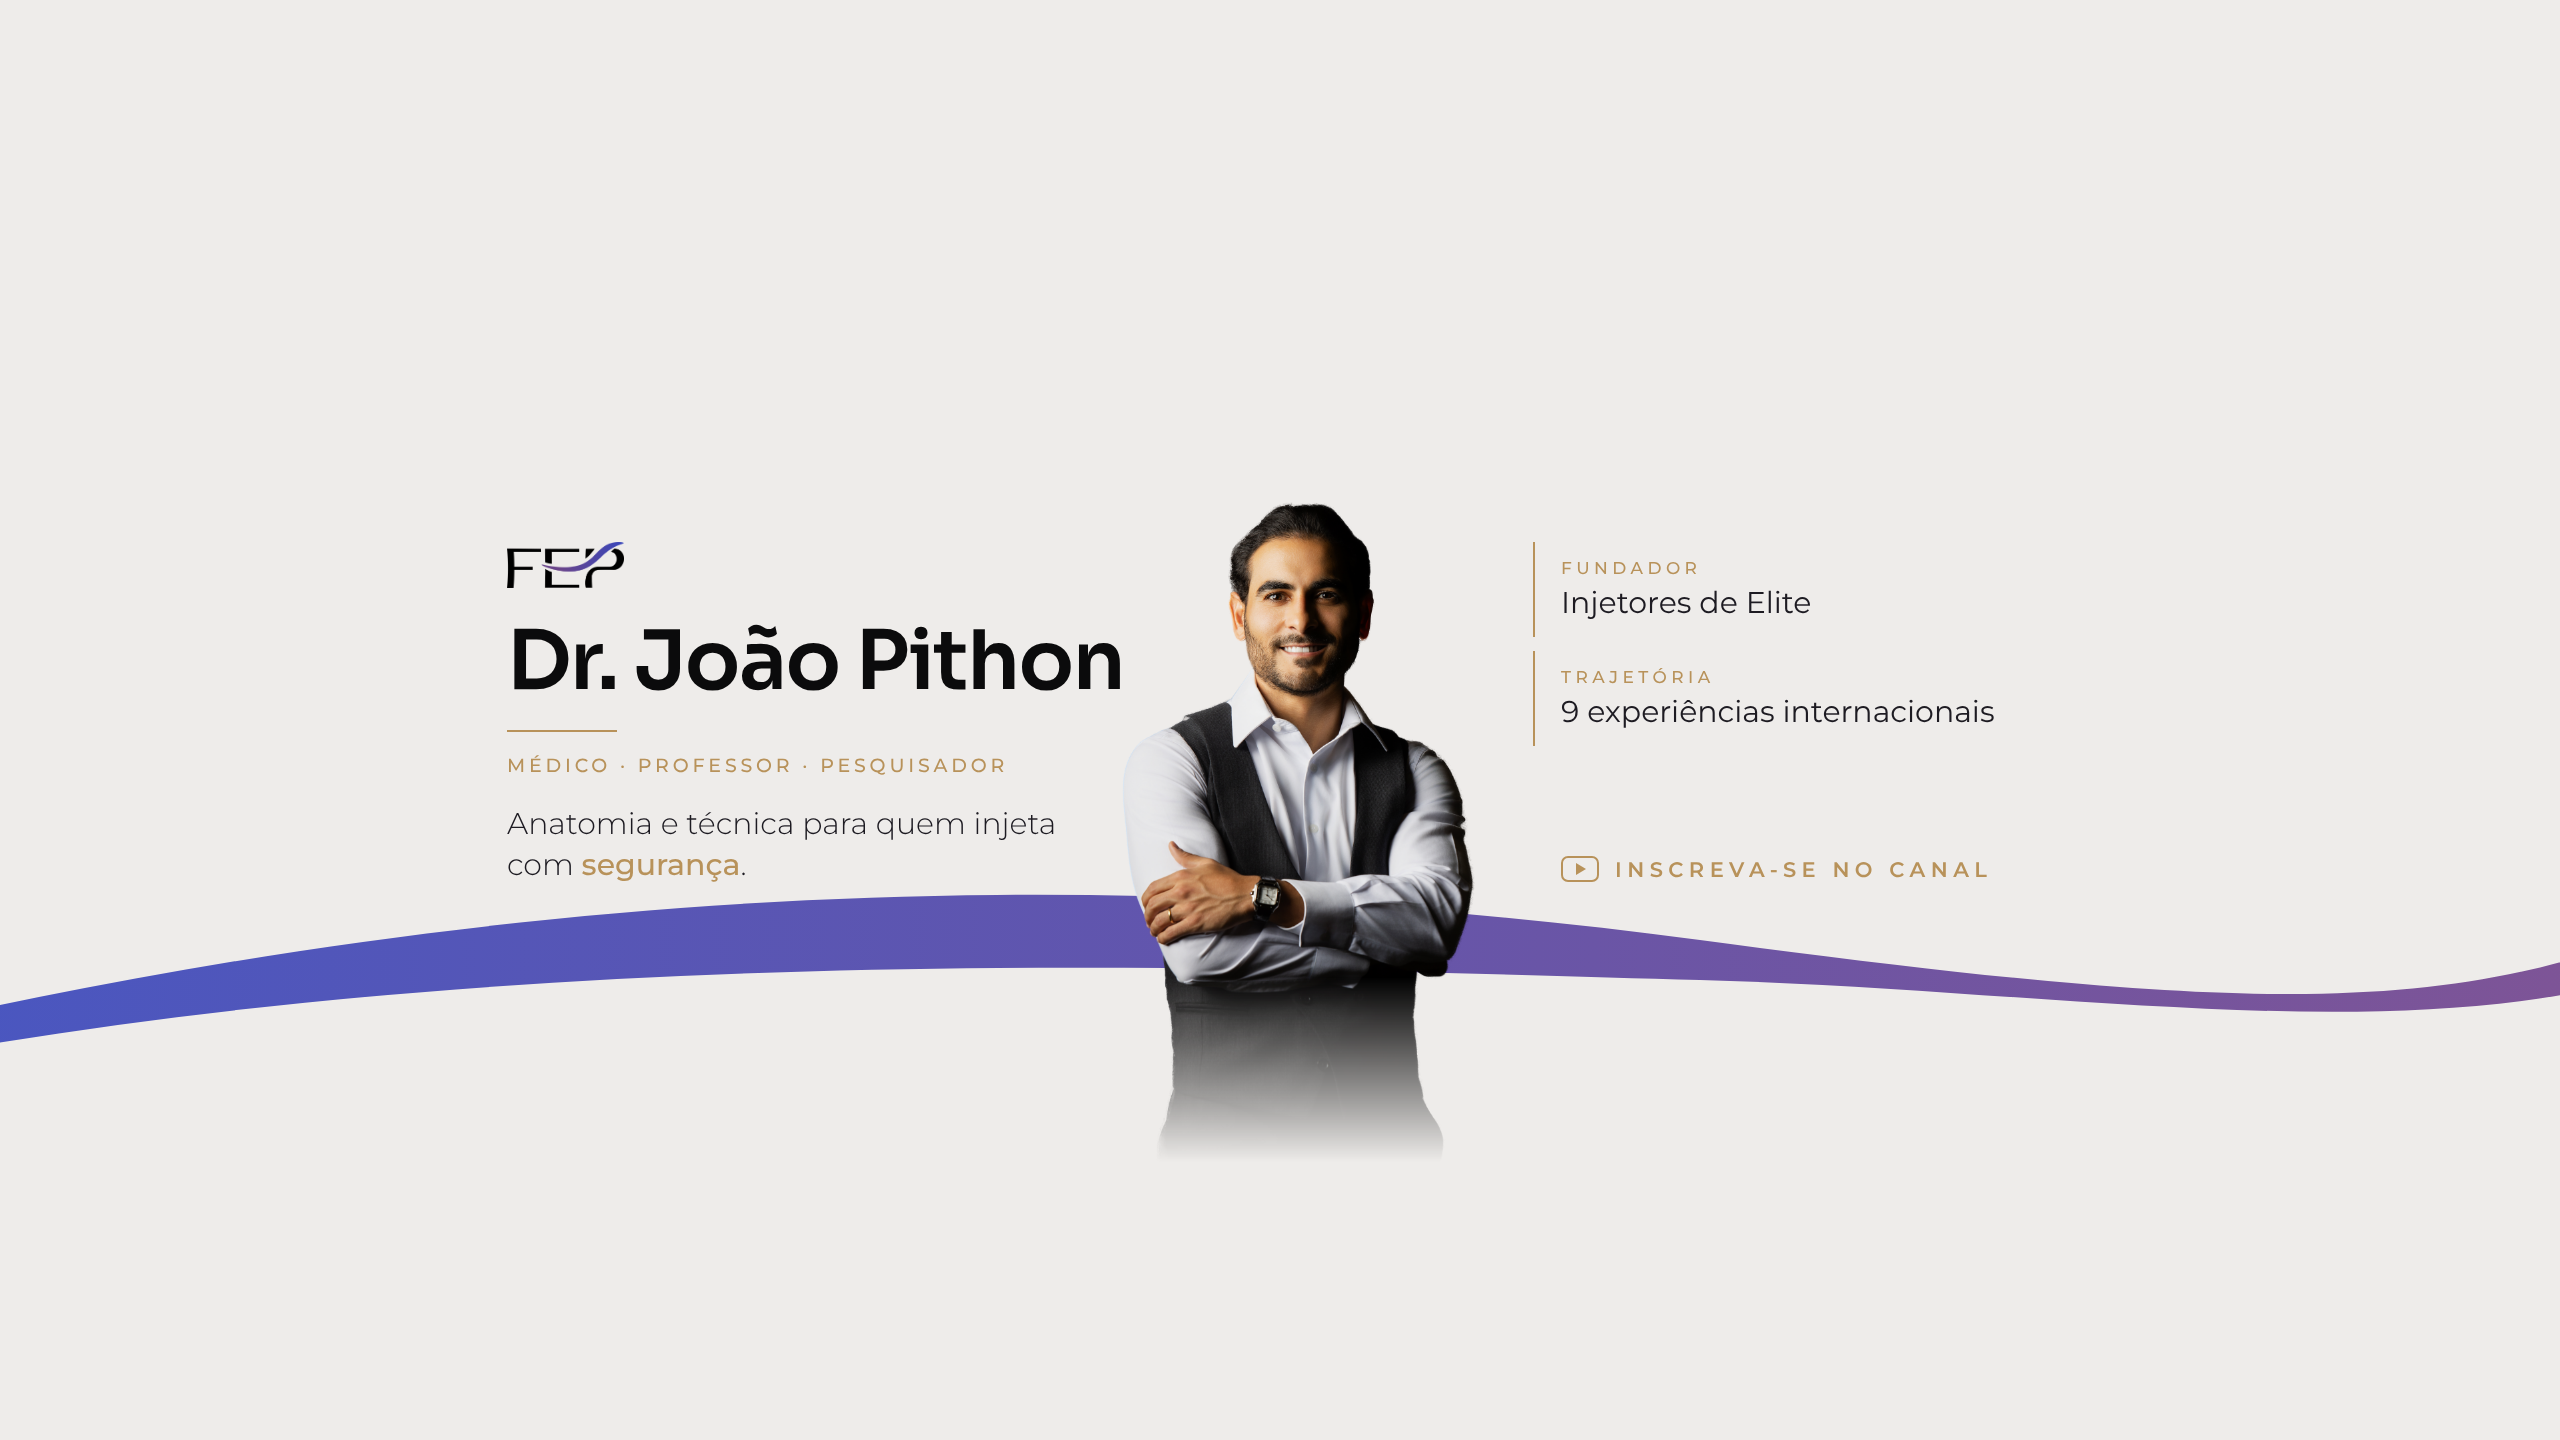
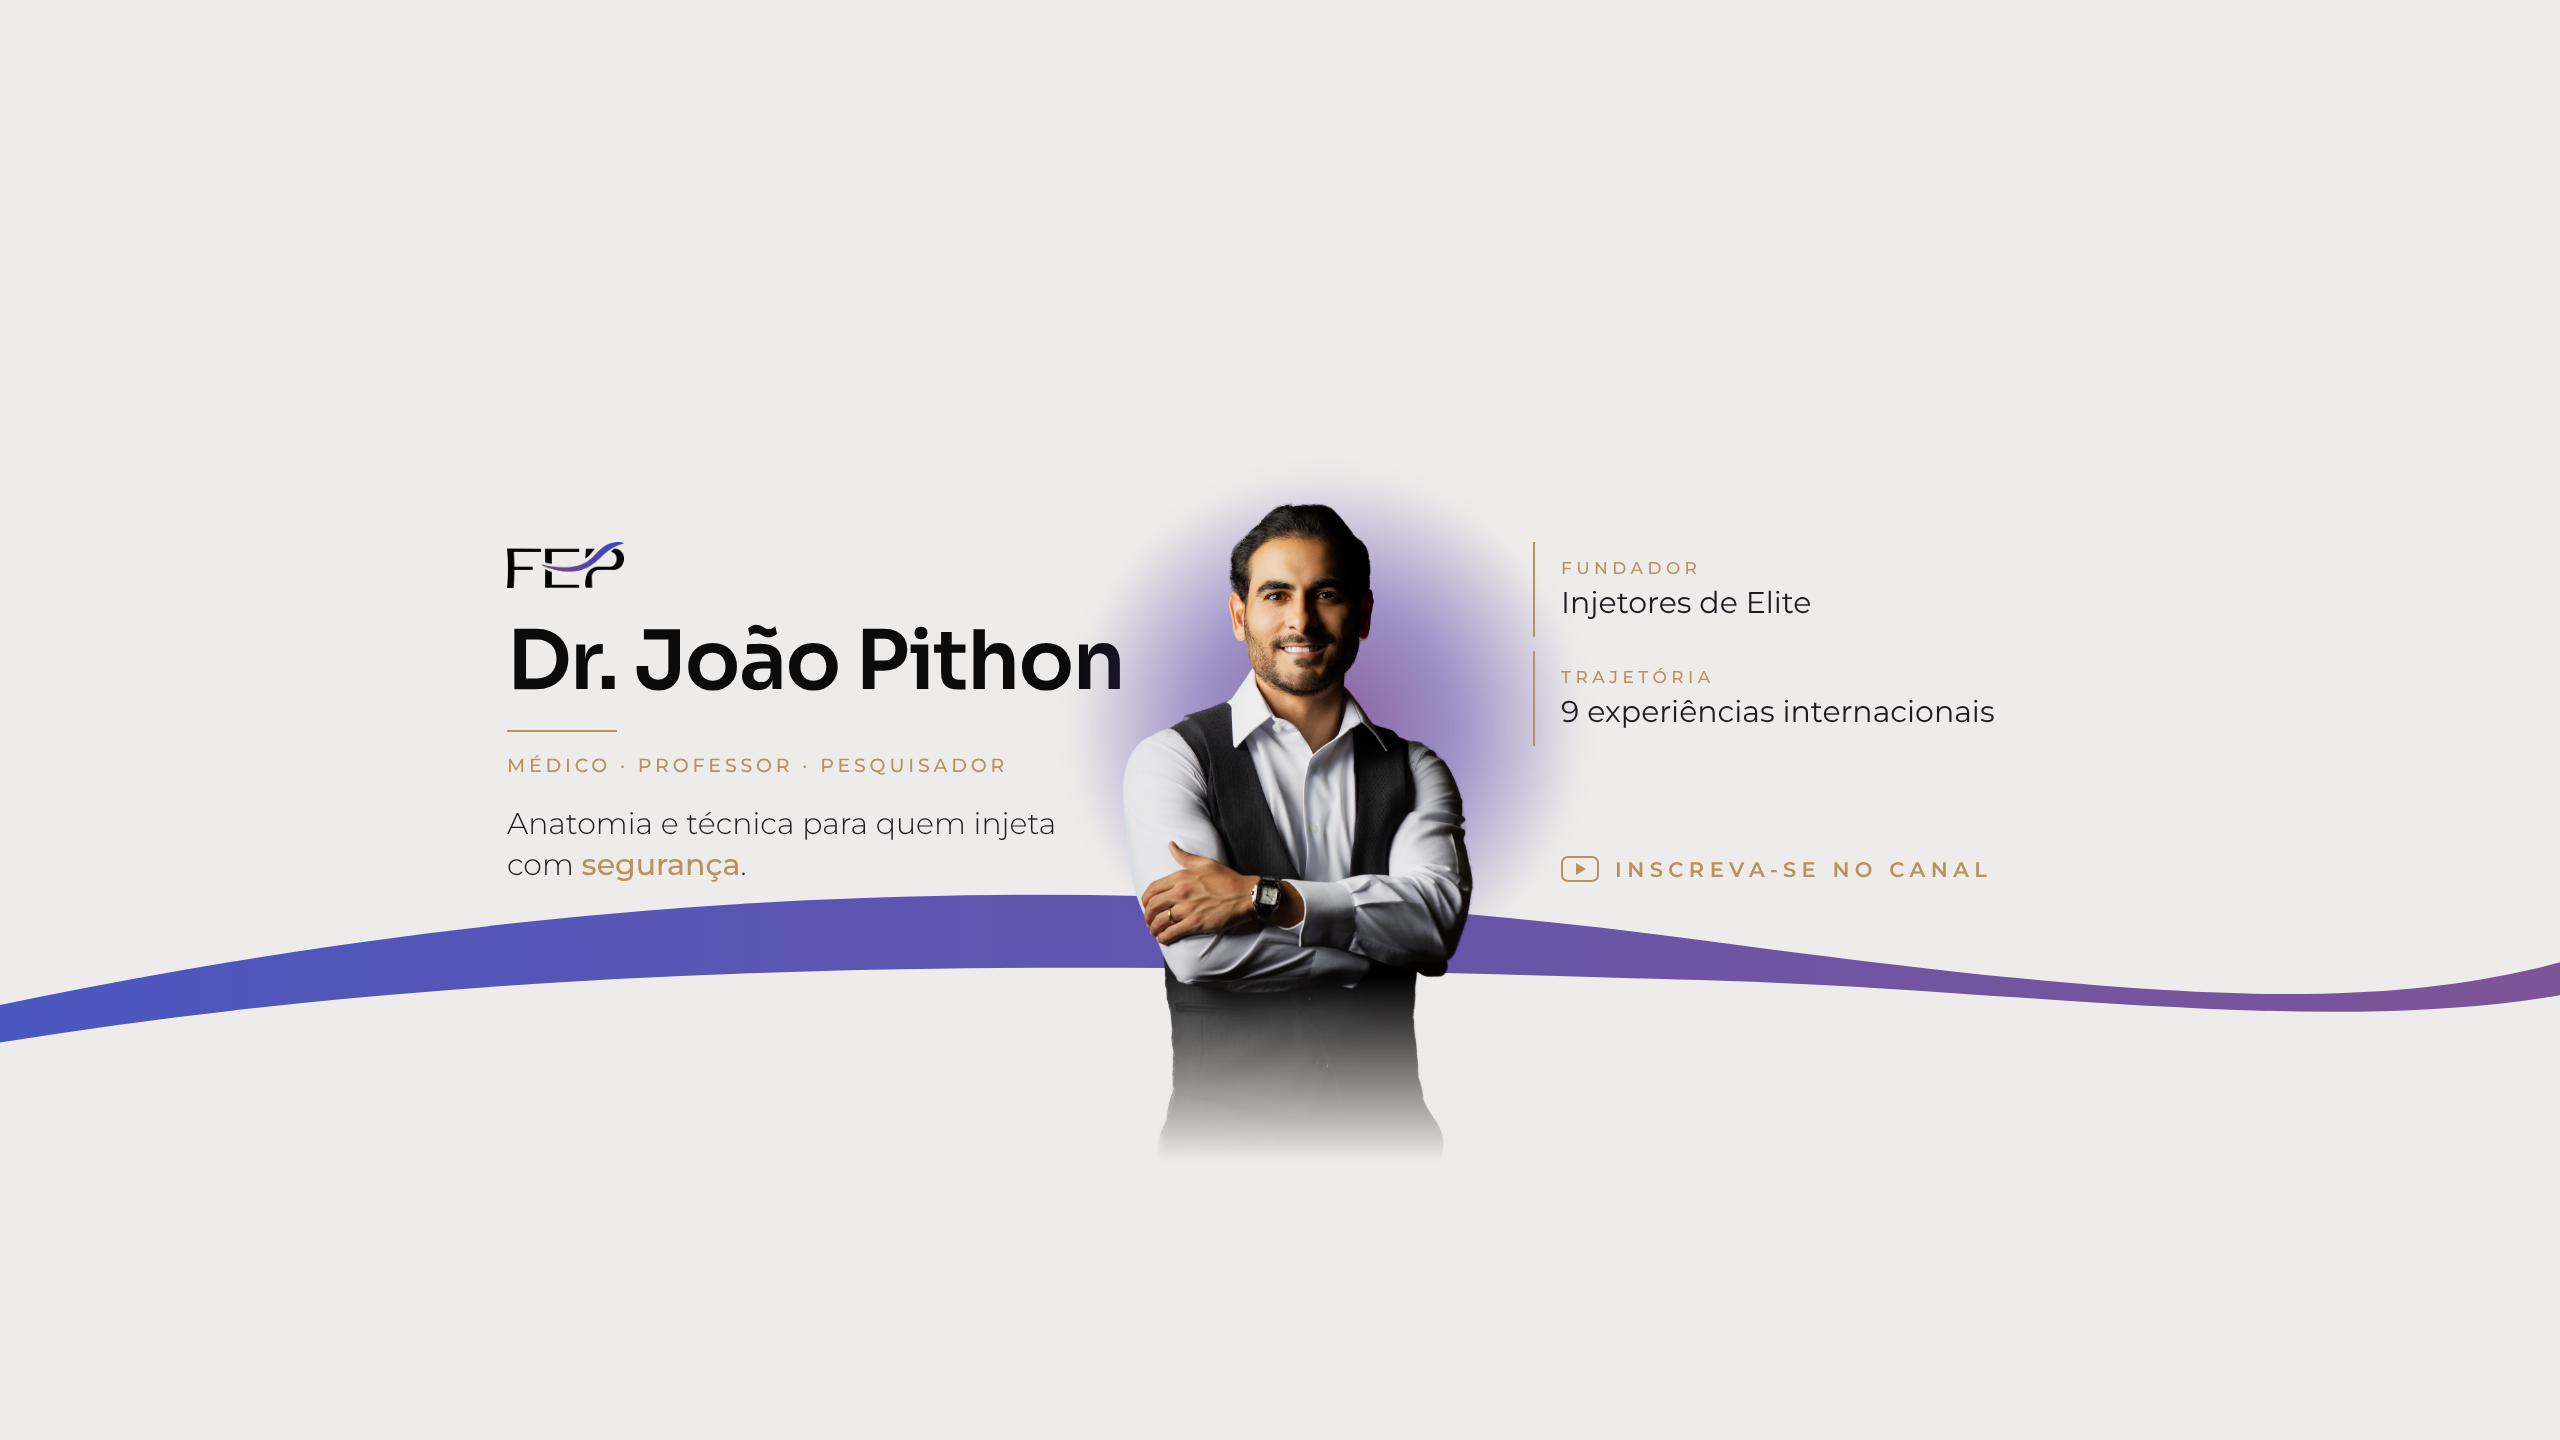
FEA capa YouTube opção B: halo roxo atrás do Dr. João
Claude-Session: https://claude.ai/code/session_011MH3jdyDdLhbFaeptuadsh

Changed region(s): [[0.4062, 0.3438, 0.625, 0.625]]

diff --git a/FEA-capa-youtube/FEA-capa-youtube-B-clara.html b/FEA-capa-youtube/FEA-capa-youtube-B-clara.html
@@ -13,6 +13,7 @@ body{background:#222;padding:20px}
 .onda{position:absolute;left:-200px;right:-200px;top:820px;height:260px}
 .linha-ouro{position:absolute;left:0;right:0;height:1px;background:linear-gradient(90deg,transparent,rgba(213,175,116,.55) 30%,rgba(213,175,116,.55) 70%,transparent)}
 .segura{position:absolute;left:507px;top:508px;width:1546px;height:423px}
+.halo{position:absolute;left:560px;top:-40px;width:520px;height:520px;border-radius:50%;background:radial-gradient(circle,rgba(117,67,138,.85) 0%,rgba(90,70,170,.55) 35%,rgba(117,67,138,0) 70%);filter:blur(10px)}
 .foto{position:absolute;left:615px;top:-6px;height:660px;-webkit-mask-image:linear-gradient(180deg,#000 72%,transparent 100%)}
 .logo{position:absolute;left:0;top:34px;height:46px}
 .nome{position:absolute;left:0;top:112px;font:600 82px Sora;color:#0b0b0c;letter-spacing:-.02em;line-height:1}
@@ -37,6 +38,7 @@ body{background:#222;padding:20px}
   <div class="fio"></div>
   <div class="cargo">Médico · professor · pesquisador</div>
   <div class="tese">Anatomia e técnica para quem injeta com <b>segurança</b>.</div>
+  <div class="halo"></div>
   <img class="foto" src="../FEA-recortes-dr-joao/FEA-joao-recorte-077.png" alt="">
   <div class="dir">
    <div class="item"><small>Fundador</small><span>Injetores de Elite</span></div>
